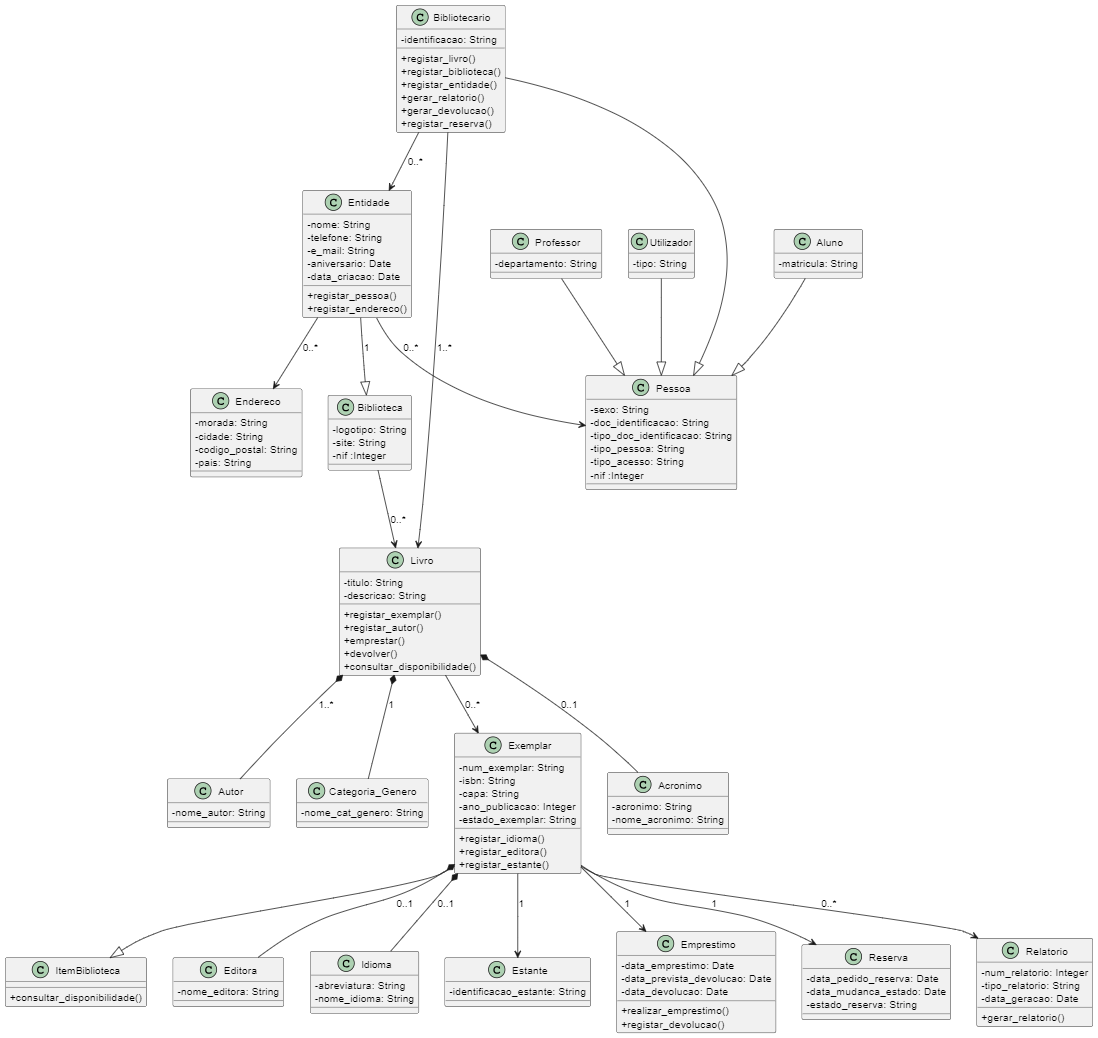
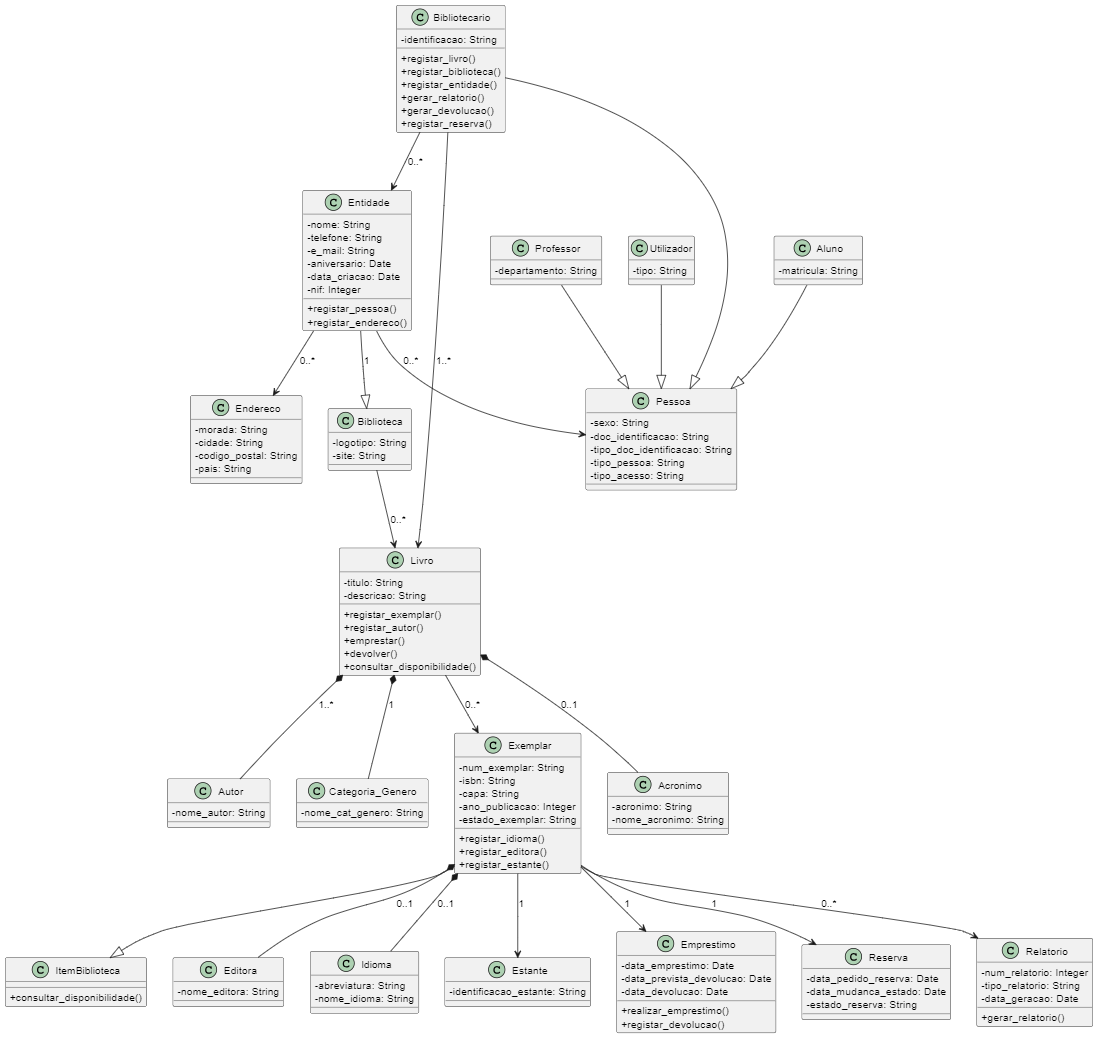
Atualização do projeto

diff --git a/biblioteca.py b/biblioteca.py
@@ -1,22 +1,14 @@
 from datetime import date
 
-class Biblioteca:
-    def __init__(self, logotipo: str, site: str, nif: int):
-        self.logotipo = logotipo
-        self.site = site
-        self.nif = nif
-        self.livros = []
-
-    def adicionar_livro(self, livro):
-        self.livros.append(livro)
-
+# Classe base para todas as entidades
 class Entidade:
-    def __init__(self, nome: str, telefone: str, e_mail: str, aniversario: date, data_criacao: date):
+    def __init__(self, nome: str, telefone: str, e_mail: str, aniversario: date, data_criacao: date, nif: int):
         self.nome = nome
         self.telefone = telefone
         self.e_mail = e_mail
         self.aniversario = aniversario
         self.data_criacao = data_criacao
+        self.nif = nif
         self.endereco = None
 
     def registar_pessoa(self, pessoa):
@@ -25,6 +17,18 @@ class Entidade:
     def registar_endereco(self, endereco):
         self.endereco = endereco
 
+# Biblioteca herda de Entidade
+class Biblioteca(Entidade):
+    def __init__(self, nome: str, telefone: str, e_mail: str, aniversario: date, data_criacao: date, nif: int, logotipo: str, site: str):
+        super().__init__(nome, telefone, e_mail, aniversario, data_criacao, nif)
+        self.logotipo = logotipo
+        self.site = site
+        self.livros = []
+
+    def adicionar_livro(self, livro):
+        self.livros.append(livro)
+
+# Classe de endereço
 class Endereco:
     def __init__(self, morada: str, cidade: str, codigo_postal: str, pais: str):
         self.morada = morada
@@ -32,22 +36,23 @@ class Endereco:
         self.codigo_postal = codigo_postal
         self.pais = pais
 
+# Classe Pessoa herda de Entidade
 class Pessoa(Entidade):
-    def __init__(self, nome: str, telefone: str, e_mail: str, aniversario: date, data_criacao: date, sexo: str, 
-                 doc_identificacao: str, tipo_doc_identificacao: str, tipo_pessoa: str, tipo_acesso: str, nif: int):
-        super().__init__(nome, telefone, e_mail, aniversario, data_criacao)
+    def __init__(self, nome: str, telefone: str, e_mail: str, aniversario: date, data_criacao: date, nif: int, sexo: str, 
+                 doc_identificacao: str, tipo_doc_identificacao: str, tipo_pessoa: str, tipo_acesso: str):
+        super().__init__(nome, telefone, e_mail, aniversario, data_criacao, nif)
         self.sexo = sexo
         self.doc_identificacao = doc_identificacao
         self.tipo_doc_identificacao = tipo_doc_identificacao
         self.tipo_pessoa = tipo_pessoa
         self.tipo_acesso = tipo_acesso
-        self.nif = nif
 
+# Classe Bibliotecário herda de Pessoa
 class Bibliotecario(Pessoa):
-    def __init__(self, nome: str, telefone: str, e_mail: str, aniversario: date, data_criacao: date, sexo: str, 
-                 doc_identificacao: str, tipo_doc_identificacao: str, tipo_pessoa: str, tipo_acesso: str, nif: int, identificacao: str):
-        super().__init__(nome, telefone, e_mail, aniversario, data_criacao, sexo, doc_identificacao, tipo_doc_identificacao, 
-                         tipo_pessoa, tipo_acesso, nif)
+    def __init__(self, nome: str, telefone: str, e_mail: str, aniversario: date, data_criacao: date, nif: int, sexo: str, 
+                 doc_identificacao: str, tipo_doc_identificacao: str, tipo_pessoa: str, tipo_acesso: str, identificacao: str):
+        super().__init__(nome, telefone, e_mail, aniversario, data_criacao, nif, sexo, doc_identificacao, tipo_doc_identificacao, 
+                         tipo_pessoa, tipo_acesso)
         self.identificacao = identificacao
 
     def registar_livro(self, livro):
@@ -62,32 +67,8 @@ class Bibliotecario(Pessoa):
     def registar_reserva(self, reserva):
         pass  # Implementação para registrar reserva
 
-class Aluno(Pessoa):
-    def __init__(self, nome: str, telefone: str, e_mail: str, aniversario: date, data_criacao: date, sexo: str, 
-                 doc_identificacao: str, tipo_doc_identificacao: str, tipo_pessoa: str, tipo_acesso: str, nif: int, matricula: str):
-        super().__init__(nome, telefone, e_mail, aniversario, data_criacao, sexo, doc_identificacao, tipo_doc_identificacao, 
-                         tipo_pessoa, tipo_acesso, nif)
-        self.matricula = matricula
-
-class Professor(Pessoa):
-    def __init__(self, nome: str, telefone: str, e_mail: str, aniversario: date, data_criacao: date, sexo: str, 
-                 doc_identificacao: str, tipo_doc_identificacao: str, tipo_pessoa: str, tipo_acesso: str, nif: int, departamento: str):
-        super().__init__(nome, telefone, e_mail, aniversario, data_criacao, sexo, doc_identificacao, tipo_doc_identificacao, 
-                         tipo_pessoa, tipo_acesso, nif)
-        self.departamento = departamento
-
-class Utilizador(Pessoa):
-    def __init__(self, nome: str, telefone: str, e_mail: str, aniversario: date, data_criacao: date, sexo: str, 
-                 doc_identificacao: str, tipo_doc_identificacao: str, tipo_pessoa: str, tipo_acesso: str, nif: int, tipo: str):
-        super().__init__(nome, telefone, e_mail, aniversario, data_criacao, sexo, doc_identificacao, tipo_doc_identificacao, 
-                         tipo_pessoa, tipo_acesso, nif)
-        self.tipo = tipo
-
-class ItemBiblioteca:
-    def consultar_disponibilidade(self):
-        pass  # Implementação para consultar disponibilidade
-
-class Livro(ItemBiblioteca):
+# Classe Livro
+class Livro:
     def __init__(self, titulo: str, descricao: str):
         self.titulo = titulo
         self.descricao = descricao
@@ -96,23 +77,7 @@ class Livro(ItemBiblioteca):
     def registar_exemplar(self, exemplar):
         self.exemplares.append(exemplar)
 
-    def registar_autor(self, autor):
-        pass  # Implementação para registrar autor
-
-    def emprestar(self, emprestimo):
-        pass  # Implementação para emprestar livro
-
-    def devolver(self, devolucao):
-        pass  # Implementação para devolver livro
-
-class Autor:
-    def __init__(self, nome_autor: str):
-        self.nome_autor = nome_autor
-
-class CategoriaGenero:
-    def __init__(self, nome_cat_genero: str):
-        self.nome_cat_genero = nome_cat_genero
-
+# Classe Exemplar
 class Exemplar:
     def __init__(self, num_exemplar: str, isbn: str, capa: str, ano_publicacao: int, estado_exemplar: str):
         self.num_exemplar = num_exemplar
@@ -120,9 +85,6 @@ class Exemplar:
         self.capa = capa
         self.ano_publicacao = ano_publicacao
         self.estado_exemplar = estado_exemplar
-        self.idioma = None
-        self.editora = None
-        self.estante = None
 
     def registar_idioma(self, idioma):
         self.idioma = idioma
@@ -133,55 +95,19 @@ class Exemplar:
     def registar_estante(self, estante):
         self.estante = estante
 
-class Acronimo:
-    def __init__(self, acronimo: str, nome_acronimo: str):
-        self.acronimo = acronimo
-        self.nome_acronimo = nome_acronimo
-
-class Editora:
-    def __init__(self, nome_editora: str):
-        self.nome_editora = nome_editora
-
-class Idioma:
-    def __init__(self, abreviatura: str, nome_idioma: str):
-        self.abreviatura = abreviatura
-        self.nome_idioma = nome_idioma
-
-class Estante:
-    def __init__(self, identificacao_estante: str):
-        self.identificacao_estante = identificacao_estante
-
+# Classe Emprestimo
 class Emprestimo:
     def __init__(self, data_emprestimo: date, data_prevista_devolucao: date, data_devolucao: date = None):
         self.data_emprestimo = data_emprestimo
         self.data_prevista_devolucao = data_prevista_devolucao
         self.data_devolucao = data_devolucao
 
-    def realizar_emprestimo(self):
-        pass  # Implementação para realizar empréstimo
-
-    def registar_devolucao(self):
-        pass  # Implementação para registrar devolução
-
-class Reserva:
-    def __init__(self, data_pedido_reserva: date, data_mudanca_estado: date, estado_reserva: str):
-        self.data_pedido_reserva = data_pedido_reserva
-        self.data_mudanca_estado = data_mudanca_estado
-        self.estado_reserva = estado_reserva
-
-class Relatorio:
-    def __init__(self, num_relatorio: int, tipo_relatorio: str, data_geracao: date):
-        self.num_relatorio = num_relatorio
-        self.tipo_relatorio = tipo_relatorio
-        self.data_geracao = data_geracao
-
-    def gerar_relatorio(self):
-        pass  # Implementação para gerar relatório
-
 # Exemplo de execução
 if __name__ == "__main__":
     # Criando um objeto da classe Biblioteca
-    biblioteca = Biblioteca(logotipo="Biblioteca Central", site="www.bibliotecacentral.com", nif=123456789)
+    biblioteca = Biblioteca(nome="Biblioteca Central", telefone="1234-5678", e_mail="contato@biblioteca.com", 
+                            aniversario=date(2000, 1, 1), data_criacao=date(2024, 10, 10), nif=123456789, 
+                            logotipo="Logo", site="www.biblioteca.com")
 
     # Criando um livro
     livro1 = Livro(titulo="Python Avançado", descricao="Um livro sobre técnicas avançadas em Python.")
@@ -192,10 +118,10 @@ if __name__ == "__main__":
     # Criando um bibliotecário
     bibliotecario = Bibliotecario(nome="Carlos Silva", telefone="123456789", e_mail="carlos@biblioteca.com", 
                                   aniversario=date(1985, 5, 15), data_criacao=date(2020, 1, 10), 
-                                  sexo="Masculino", doc_identificacao="123456789", tipo_doc_identificacao="BI", 
-                                  tipo_pessoa="Funcionário", tipo_acesso="Admin", nif=987654321, identificacao="B001")
+                                  nif=987654321, sexo="Masculino", doc_identificacao="123456789", tipo_doc_identificacao="BI", 
+                                  tipo_pessoa="Funcionário", tipo_acesso="Admin", identificacao="B001")
 
     # Exibindo informações da biblioteca e do bibliotecário
-    print(f"Biblioteca: {biblioteca.logotipo}, Site: {biblioteca.site}, NIF: {biblioteca.nif}")
+    print(f"Biblioteca: {biblioteca.nome}, Site: {biblioteca.site}, NIF: {biblioteca.nif}")
     print(f"Bibliotecário: {bibliotecario.nome}, Identificação: {bibliotecario.identificacao}")
     print(f"Livro adicionado: {livro1.titulo}, Descrição: {livro1.descricao}")
